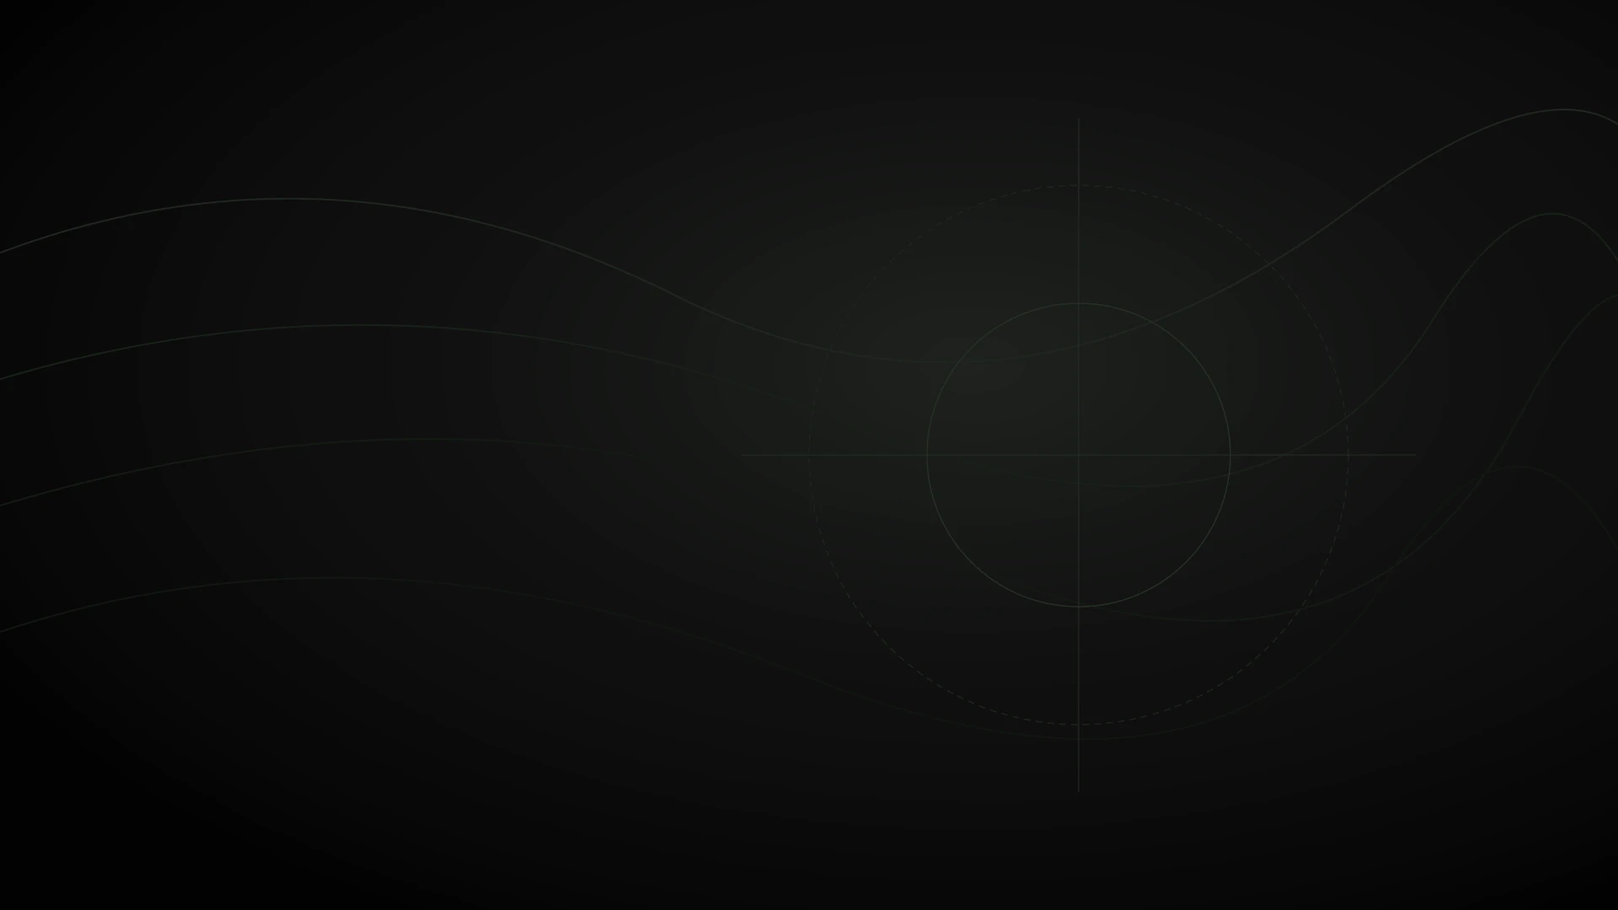
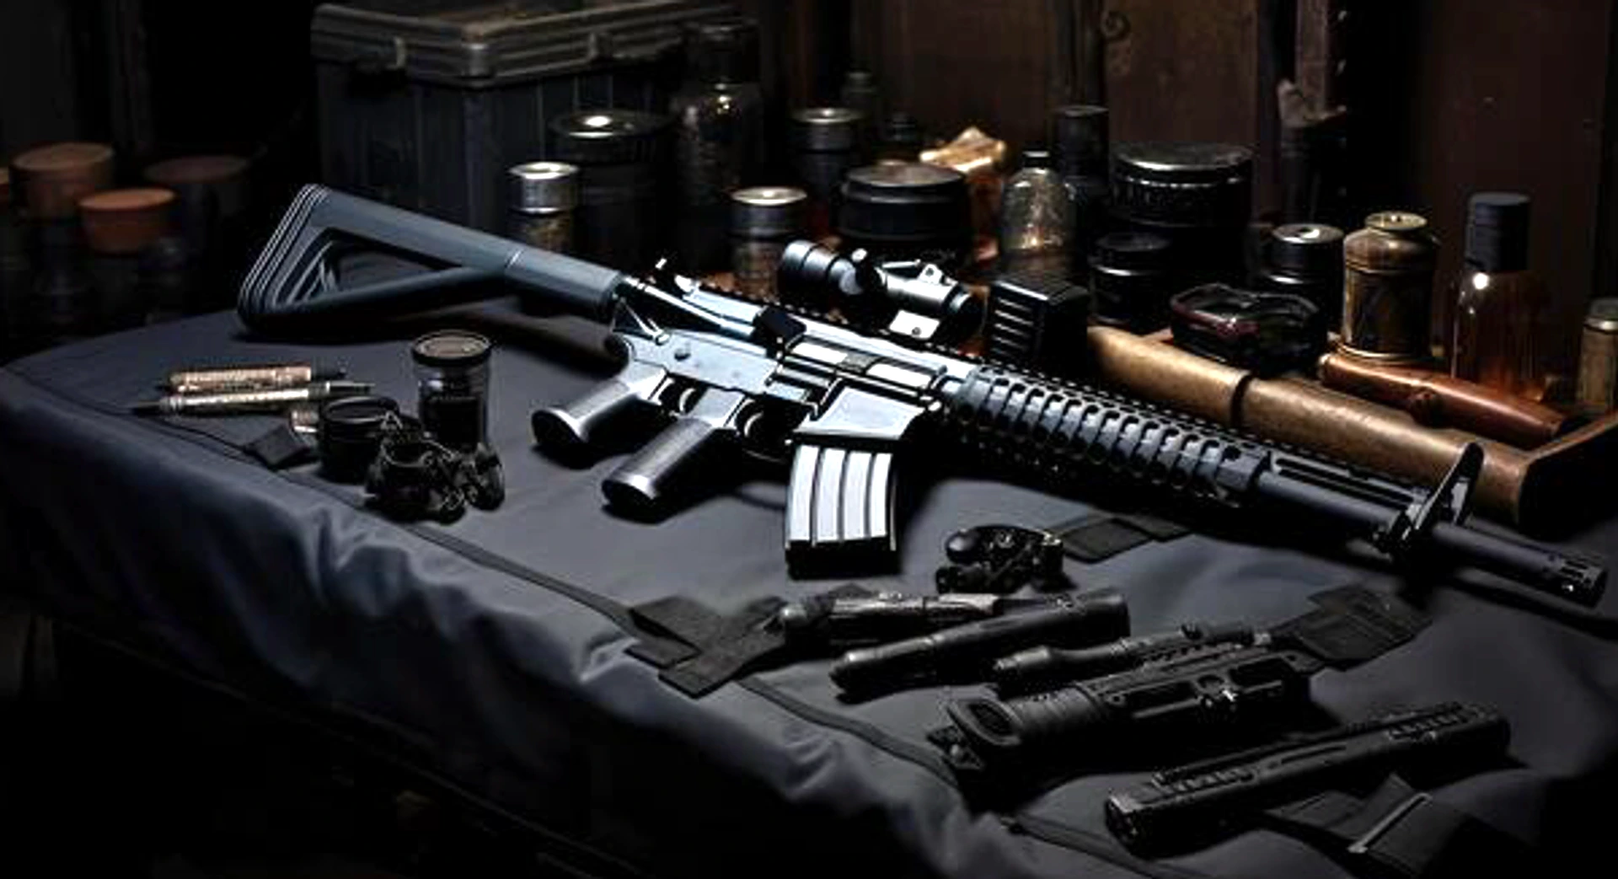
feat(ui): apply full-screen tactical background and frosted glass spotlight card

diff --git a/src/components/home/HeroSection.tsx b/src/components/home/HeroSection.tsx
@@ -11,10 +11,6 @@ import {
   MapPin,
   Compass,
   Crosshair,
-  Target,
-  Eye,
-  Layers,
-  Sparkles,
 } from "lucide-react";
 
 import { getHeroSpotlightProduct } from "@/lib/products";
@@ -40,126 +36,72 @@ export default function HeroSection({ products = [] }: { products?: Product[] })
   const spotlightTitle = (isTr ? spotlightProduct?.name_tr : spotlightProduct?.name_en) || t("spotlightTitle");
   const spotlightImage = spotlightProduct?.images?.[0] || "/images/products/optics-1.webp";
 
-  const quickCategories = [
-    {
-      id: "silah-muhimmat",
-      label: t("quickFirearms"),
-      icon: Target,
-      count: "12 Kalibre",
-    },
-    {
-      id: "optik",
-      label: t("quickOptics"),
-      icon: Eye,
-      count: "ED Cam",
-    },
-    {
-      id: "bicak",
-      label: t("quickKnives"),
-      icon: Crosshair,
-      count: "D2 Çelik",
-    },
-    {
-      id: "kamp",
-      label: t("quickCamping"),
-      icon: Layers,
-      count: "Outdoor",
-    },
-  ];
-
   return (
-    <section className="relative min-h-[92vh] flex items-center justify-center overflow-hidden border-b border-neutral-200/80 dark:border-neutral-800/80 bg-neutral-100/60 dark:bg-black pt-20 pb-16 lg:py-24 transition-colors">
-      {/* Dynamic Background Image & Atmosphere */}
-      <div className="absolute inset-0 -z-10 overflow-hidden">
+    <section className="relative min-h-[92vh] flex items-center justify-center overflow-hidden border-b border-neutral-800 bg-neutral-950 pt-20 pb-16 lg:py-24">
+      {/* Full-Screen Atmospheric Tactical Photography Background */}
+      <div className="absolute inset-0 z-0 overflow-hidden pointer-events-none select-none">
         <Image
           src="/images/hero-bg.webp"
           alt={tCommon("bgAlt")}
           fill
           priority
           sizes="100vw"
-          className="object-cover object-center opacity-30 dark:opacity-50 scale-105 transition-transform duration-1000"
+          className="object-cover object-center scale-100 transition-transform duration-1000"
         />
-        {/* Soft Vignette & Atmospheric Gradients */}
-        <div className="absolute inset-0 bg-gradient-to-t from-neutral-100 via-neutral-100/70 to-transparent dark:from-black dark:via-black/75 dark:to-black/30" />
-        <div className="absolute inset-0 bg-gradient-to-r from-neutral-100 via-neutral-100/80 to-transparent dark:from-black dark:via-black/85 dark:to-transparent" />
+        {/* Directional Overlay: Darker on the left for crisp text legibility, transparent on right so rifle shines through */}
+        <div className="absolute inset-0 bg-gradient-to-r from-black/85 via-black/45 to-transparent" />
+        <div className="absolute inset-0 bg-gradient-to-b from-black/60 via-transparent to-black/80" />
       </div>
 
-      {/* Ambient Lighting Orbs */}
-      <div className="absolute right-0 top-1/4 -z-10 h-[500px] w-[500px] rounded-full bg-[#d4af37]/15 dark:bg-[#d4af37]/20 blur-[130px] pointer-events-none" />
-      <div className="absolute left-10 top-20 -z-10 h-80 w-80 rounded-full bg-emerald-500/10 dark:bg-emerald-500/15 blur-[100px] pointer-events-none" />
+      {/* Subtle Golden Tactical Ambient Lighting on the right */}
+      <div className="absolute right-10 top-1/4 z-0 h-[450px] w-[450px] rounded-full bg-[#d4af37]/15 blur-[130px] pointer-events-none" />
 
-      {/* Tactical Grid Pattern Overlay */}
-      <div className="tactical-grid absolute inset-0 -z-10 opacity-30 pointer-events-none" />
+      {/* Fine Tactical Grid Overlay */}
+      <div className="tactical-grid absolute inset-0 z-0 opacity-10 pointer-events-none" />
 
-      <div className="mx-auto max-w-7xl px-4 sm:px-6 lg:px-8 w-full">
+      <div className="relative z-10 mx-auto max-w-7xl px-4 sm:px-6 lg:px-8 w-full">
         <div className="grid grid-cols-1 lg:grid-cols-12 gap-10 lg:gap-12 items-center">
-          {/* LEFT COLUMN: Authority, Value Proposition & CTAs */}
-          <div className="lg:col-span-7 space-y-6 sm:space-y-7">
+          {/* LEFT COLUMN: Clean, Restful, Uncluttered Authority & CTAs */}
+          <div className="lg:col-span-7 space-y-6 sm:space-y-8">
             {/* Live Status & Authority Badges */}
             <div className="flex flex-wrap items-center gap-2">
-              <div className="inline-flex items-center gap-2 rounded-full border border-neutral-300/80 dark:border-neutral-800 bg-white/95 dark:bg-neutral-900/90 px-3 py-1.5 text-xs backdrop-blur-md shadow-sm">
-                <div className="flex items-center gap-1.5 rounded-full bg-emerald-500/15 px-2 py-0.5 text-emerald-600 dark:text-emerald-400 font-bold border border-emerald-500/30">
+              <div className="inline-flex items-center gap-2 rounded-full border border-white/15 bg-black/40 px-3.5 py-1.5 text-xs text-white backdrop-blur-md shadow-lg">
+                <div className="flex items-center gap-1.5 rounded-full bg-emerald-500/20 px-2.5 py-0.5 text-emerald-400 font-bold border border-emerald-500/30">
                   <span className="relative flex h-2 w-2">
                     <span className="absolute inline-flex h-full w-full animate-ping rounded-full bg-emerald-400 opacity-75"></span>
                     <span className="relative inline-flex h-2 w-2 rounded-full bg-emerald-500"></span>
                   </span>
                   <span>{tCommon("open")}</span>
                 </div>
-                <div className="flex items-center gap-1 text-amber-500 dark:text-amber-400 font-extrabold">
+                <div className="flex items-center gap-1 text-amber-400 font-extrabold">
                   <Star className="h-3.5 w-3.5 fill-current" />
                   <span>5.0</span>
                 </div>
-                <span className="text-neutral-300 dark:text-neutral-700">|</span>
-                <span className="font-bold text-neutral-800 dark:text-neutral-300 tracking-wide uppercase text-[11px]">
+                <span className="text-white/30">|</span>
+                <span className="font-bold text-neutral-200 tracking-wide uppercase text-[11px]">
                   {t("badge")}
                 </span>
               </div>
             </div>
 
-            {/* Main Headline */}
-            <div className="space-y-3">
-              <h1 className="font-heading text-4xl font-black tracking-tight text-neutral-950 dark:text-white uppercase sm:text-5xl lg:text-6xl xl:text-7xl leading-[1.06]">
+            {/* Main Headline - High contrast, powerful */}
+            <div className="space-y-4">
+              <h1 className="font-heading text-4xl font-black tracking-tight text-white uppercase sm:text-5xl lg:text-6xl xl:text-7xl leading-[1.06] drop-shadow-md">
                 {t("titlePrefix")}{" "}
-                <span className="text-transparent bg-clip-text bg-gradient-to-r from-amber-700 via-[#d4af37] to-amber-600 dark:from-amber-200 dark:via-[#d4af37] dark:to-yellow-500">
+                <span className="text-transparent bg-clip-text bg-gradient-to-r from-amber-200 via-[#d4af37] to-amber-400">
                   {t("titleHighlight")}
                 </span>
               </h1>
-              <p className="max-w-2xl text-base text-neutral-700 dark:text-neutral-300 sm:text-lg leading-relaxed font-normal">
+              <p className="max-w-xl text-base text-neutral-200 sm:text-lg leading-relaxed font-normal drop-shadow-sm">
                 {t("description")}
               </p>
             </div>
 
-            {/* Quick Category Jump Chips */}
-            <div className="space-y-2 pt-1">
-              <div className="flex items-center gap-2 text-xs font-bold uppercase tracking-wider text-neutral-500 dark:text-neutral-400">
-                <Sparkles className="h-3.5 w-3.5 text-[#d4af37]" />
-                <span>{t("quickCategories")}</span>
-              </div>
-              <div className="flex flex-wrap gap-2">
-                {quickCategories.map((cat) => {
-                  const Icon = cat.icon;
-                  return (
-                    <Link
-                      key={cat.id}
-                      href={`/products?category=${cat.id}`}
-                      className="group inline-flex items-center gap-2 rounded-xl border border-neutral-300/80 dark:border-neutral-800 bg-white/80 dark:bg-neutral-900/60 px-3.5 py-2 text-xs font-bold text-neutral-800 dark:text-neutral-200 backdrop-blur-md transition-all hover:border-[#d4af37] hover:bg-neutral-50 dark:hover:bg-neutral-850 hover:text-black dark:hover:text-white hover:scale-[1.02] shadow-sm"
-                    >
-                      <Icon className="h-3.5 w-3.5 text-[#d4af37] transition-transform group-hover:scale-110" />
-                      <span>{cat.label}</span>
-                      <span className="rounded bg-neutral-200/70 dark:bg-neutral-800 px-1.5 py-0.5 text-[10px] font-semibold text-neutral-600 dark:text-neutral-400">
-                        {cat.count}
-                      </span>
-                    </Link>
-                  );
-                })}
-              </div>
-            </div>
-
-            {/* Action CTA Buttons */}
-            <div className="flex flex-wrap items-center gap-3 pt-2">
+            {/* Streamlined Action CTAs: High-impact buttons without eye-straining clutter */}
+            <div className="flex flex-wrap items-center gap-3.5 pt-1">
               <Link
                 href="/products"
-                className="inline-flex items-center justify-center gap-2 rounded-xl bg-neutral-950 dark:bg-white px-6 py-3.5 text-sm font-extrabold uppercase tracking-wider text-white dark:text-black shadow-xl transition-all hover:bg-neutral-800 dark:hover:bg-neutral-200 hover:shadow-2xl active:scale-95"
+                className="inline-flex items-center justify-center gap-2.5 rounded-xl bg-white hover:bg-neutral-200 text-black px-7 py-4 text-sm font-extrabold uppercase tracking-wider shadow-2xl transition-all hover:scale-[1.02] active:scale-95"
               >
                 <span>{t("catalogCta")}</span>
                 <ArrowRight className="h-4 w-4 transition-transform group-hover:translate-x-1" />
@@ -169,7 +111,7 @@ export default function HeroSection({ products = [] }: { products?: Product[] })
                 href={waUrl}
                 target="_blank"
                 rel="noopener noreferrer"
-                className="inline-flex items-center justify-center gap-2 rounded-xl border border-neutral-300 dark:border-neutral-700 bg-white/95 dark:bg-neutral-900/90 px-5 py-3.5 text-sm font-bold uppercase tracking-wider text-neutral-950 dark:text-white backdrop-blur-md transition-all hover:border-[#25D366] hover:bg-white dark:hover:bg-neutral-850 active:scale-95 shadow-sm"
+                className="inline-flex items-center justify-center gap-2 rounded-xl border border-white/20 bg-black/40 hover:bg-black/60 px-6 py-4 text-sm font-bold uppercase tracking-wider text-white backdrop-blur-md transition-all hover:border-[#25D366] hover:scale-[1.02] active:scale-95 shadow-lg"
               >
                 <MessageCircle className="h-4 w-4 text-[#25D366]" />
                 <span>{tCommon("whatsappInfoLine")}</span>
@@ -177,46 +119,48 @@ export default function HeroSection({ products = [] }: { products?: Product[] })
 
               <Link
                 href="/contact"
-                className="inline-flex items-center justify-center gap-2 rounded-xl border border-neutral-300 dark:border-neutral-800 bg-white/80 dark:bg-black/60 px-4 py-3.5 text-sm font-semibold text-neutral-800 dark:text-neutral-300 transition-all hover:bg-neutral-100 dark:hover:bg-neutral-900 shadow-sm"
+                className="inline-flex items-center justify-center gap-2 rounded-xl border border-white/15 bg-black/30 hover:bg-black/50 px-5 py-4 text-sm font-semibold text-neutral-200 hover:text-white backdrop-blur-md transition-all shadow-sm"
               >
                 <MapPin className="h-4 w-4 text-[#d4af37]" />
                 <span>{t("storeCta")}</span>
               </Link>
             </div>
 
-            {/* Trust Highlights Strip */}
-            <div className="grid grid-cols-2 sm:grid-cols-3 gap-4 pt-4 border-t border-neutral-300/60 dark:border-neutral-800/80 text-xs text-neutral-800 dark:text-neutral-300 font-medium">
-              <div className="flex items-center gap-2.5">
-                <ShieldCheck className="h-5 w-5 shrink-0 text-[#d4af37]" />
-                <div className="font-semibold">{t("licensedDealer")}</div>
+            {/* Clean Trust Strip */}
+            <div className="flex flex-wrap items-center gap-6 pt-2 text-xs text-neutral-300 font-medium">
+              <div className="flex items-center gap-2">
+                <ShieldCheck className="h-4 w-4 text-[#d4af37]" />
+                <span>{t("licensedDealer")}</span>
               </div>
-              <div className="flex items-center gap-2.5">
-                <Compass className="h-5 w-5 shrink-0 text-[#d4af37]" />
-                <div className="font-semibold">{t("yearsExp")}</div>
+              <span className="text-white/20">&bull;</span>
+              <div className="flex items-center gap-2">
+                <Compass className="h-4 w-4 text-[#d4af37]" />
+                <span>{t("yearsExp")}</span>
               </div>
-              <div className="flex items-center gap-2.5 col-span-2 sm:col-span-1">
-                <Star className="h-5 w-5 shrink-0 text-amber-500 fill-amber-500 dark:text-amber-400 dark:fill-amber-400" />
-                <div className="font-semibold">{t("originalProducts")}</div>
+              <span className="text-white/20">&bull;</span>
+              <div className="flex items-center gap-2">
+                <Star className="h-4 w-4 text-amber-400 fill-amber-400" />
+                <span>{t("originalProducts")}</span>
               </div>
             </div>
           </div>
 
-          {/* RIGHT COLUMN: Flagship Tactical Spotlight Card */}
-          <div className="lg:col-span-5 relative">
-            {/* Outer Glow Wrapper */}
-            <div className="relative rounded-3xl p-1 bg-gradient-to-b from-[#d4af37]/40 via-neutral-300 dark:via-neutral-800/60 to-neutral-200 dark:to-neutral-900 shadow-2xl">
-              {/* Inner Card Container */}
-              <div className="relative rounded-[22px] bg-white/95 dark:bg-neutral-950/95 border border-neutral-200/80 dark:border-neutral-800/80 backdrop-blur-2xl p-5 sm:p-6 overflow-hidden">
+          {/* RIGHT COLUMN: Fully Transparent Frosted Glass Spotlight Card */}
+          <div className="lg:col-span-5 relative mt-4 lg:mt-0">
+            {/* Luminous Glass Outer Border */}
+            <div className="relative rounded-3xl p-[1px] bg-gradient-to-b from-[#d4af37]/60 via-white/20 to-[#d4af37]/30 shadow-[0_20px_50px_rgba(0,0,0,0.6)] backdrop-blur-xl">
+              {/* Semi-Transparent Frosted Glass Container (Background Visible Through It) */}
+              <div className="relative rounded-[23px] bg-neutral-950/40 backdrop-blur-xl border border-white/15 p-5 sm:p-6 pb-12 sm:pb-14 overflow-hidden text-white shadow-2xl">
                 {/* Spotlight Header Bar */}
-                <div className="flex items-center justify-between gap-2 pb-4 border-b border-neutral-200 dark:border-neutral-800">
+                <div className="flex items-center justify-between gap-2 pb-4 border-b border-white/10">
                   <div className="flex items-center gap-2">
                     <Crosshair className="h-4 w-4 text-[#d4af37]" />
                     <span className="text-[11px] font-black uppercase tracking-widest text-[#d4af37]">
                       {t("spotlightBadge")}
                     </span>
                   </div>
-                  <div className="flex items-center gap-1.5 rounded-full bg-emerald-500/10 px-2.5 py-0.5 text-[10px] font-bold text-emerald-600 dark:text-emerald-400 border border-emerald-500/20">
-                    <span className="h-1.5 w-1.5 rounded-full bg-emerald-500 animate-pulse" />
+                  <div className="flex items-center gap-1.5 rounded-full bg-emerald-500/20 px-2.5 py-0.5 text-[10px] font-bold text-emerald-400 border border-emerald-500/30">
+                    <span className="h-1.5 w-1.5 rounded-full bg-emerald-400 animate-pulse" />
                     <span>{t("spotlightInStock")}</span>
                   </div>
                 </div>
@@ -224,7 +168,7 @@ export default function HeroSection({ products = [] }: { products?: Product[] })
                 {/* Hero Product Visual Display */}
                 <Link
                   href={featuredProductSlug}
-                  className="group block relative my-4 rounded-2xl bg-neutral-100 dark:bg-neutral-900 border border-neutral-200 dark:border-neutral-800/80 overflow-hidden aspect-[4/3]"
+                  className="group block relative my-4 rounded-2xl bg-black/40 border border-white/15 overflow-hidden aspect-[4/3] backdrop-blur-md shadow-inner"
                 >
                   <Image
                     src={spotlightImage}
@@ -233,50 +177,45 @@ export default function HeroSection({ products = [] }: { products?: Product[] })
                     sizes="(max-width: 768px) 100vw, 500px"
                     className="object-cover object-center transition-transform duration-500 group-hover:scale-105"
                   />
-                  {/* Tactical Reticle Graphic Overlay */}
-                  <div className="absolute inset-0 bg-gradient-to-t from-black/80 via-transparent to-transparent flex items-end p-4">
-                    <div className="text-white">
-                      <div className="text-xs font-mono font-bold tracking-widest text-[#d4af37] uppercase">
-                        [ + ] ÖNE ÇIKAN MODEL
-                      </div>
-                      <div className="text-base font-heading font-black">
-                        {spotlightTitle}
+                  {spotlightProduct ? (
+                    <div className="absolute inset-0 bg-gradient-to-t from-black/85 via-black/20 to-transparent flex items-end p-4">
+                      <div className="text-white">
+                        <div className="text-xs font-mono font-bold tracking-widest text-[#d4af37] uppercase">
+                          [ + ] ÖNE ÇIKAN MODEL
+                        </div>
+                        <div className="text-base font-heading font-black">
+                          {spotlightTitle}
+                        </div>
                       </div>
                     </div>
-                  </div>
-
-                  {/* Corner Crosshair HUD Markers */}
-                  <div className="absolute top-2 left-2 text-neutral-400/60 font-mono text-[10px] select-none">
-                    + 3-24x56
-                  </div>
-                  <div className="absolute top-2 right-2 text-neutral-400/60 font-mono text-[10px] select-none">
-                    ED GLASS
-                  </div>
+                  ) : (
+                    <div className="absolute inset-0 bg-black/10 group-hover:bg-transparent transition-colors" />
+                  )}
                 </Link>
 
-                {/* Tactical Specs Bar */}
-                <div className="grid grid-cols-3 gap-2 py-3 border-y border-neutral-200 dark:border-neutral-800/80 text-center">
-                  <div className="rounded-lg bg-neutral-50 dark:bg-neutral-900/60 p-2">
-                    <div className="text-[10px] uppercase font-bold text-neutral-500 dark:text-neutral-400">
+                {/* Tactical Specs Bar (Translucent Glass Pills) */}
+                <div className="grid grid-cols-3 gap-2.5 py-3 border-y border-white/10 text-center">
+                  <div className="rounded-xl bg-white/[0.08] backdrop-blur-md border border-white/10 p-2.5">
+                    <div className="text-[10px] uppercase font-bold text-neutral-300">
                       {t("spotlightMagnification")}
                     </div>
-                    <div className="font-heading font-black text-sm text-neutral-900 dark:text-white">
+                    <div className="font-heading font-black text-sm text-white mt-0.5">
                       3x - 24x
                     </div>
                   </div>
-                  <div className="rounded-lg bg-neutral-50 dark:bg-neutral-900/60 p-2">
-                    <div className="text-[10px] uppercase font-bold text-neutral-500 dark:text-neutral-400">
+                  <div className="rounded-xl bg-white/[0.08] backdrop-blur-md border border-white/10 p-2.5">
+                    <div className="text-[10px] uppercase font-bold text-neutral-300">
                       {t("spotlightLight")}
                     </div>
-                    <div className="font-heading font-black text-sm text-emerald-600 dark:text-emerald-400">
+                    <div className="font-heading font-black text-sm text-emerald-400 mt-0.5">
                       %92+
                     </div>
                   </div>
-                  <div className="rounded-lg bg-neutral-50 dark:bg-neutral-900/60 p-2">
-                    <div className="text-[10px] uppercase font-bold text-neutral-500 dark:text-neutral-400">
+                  <div className="rounded-xl bg-white/[0.08] backdrop-blur-md border border-white/10 p-2.5">
+                    <div className="text-[10px] uppercase font-bold text-neutral-300">
                       {t("spotlightDurability")}
                     </div>
-                    <div className="font-heading font-black text-sm text-neutral-900 dark:text-white">
+                    <div className="font-heading font-black text-sm text-white mt-0.5">
                       Magnum
                     </div>
                   </div>
@@ -284,18 +223,19 @@ export default function HeroSection({ products = [] }: { products?: Product[] })
 
                 {/* Spotlight Footer & Action */}
                 <div className="flex items-center justify-between pt-4 gap-3">
-                  <div className="flex flex-col">
-                    <span className="text-[10px] uppercase tracking-wider font-bold text-neutral-500 dark:text-neutral-400">
-                      📍 {t("spotlightStorePickup")}
+                  <div className="flex flex-col space-y-0.5">
+                    <span className="text-[11px] uppercase tracking-wider font-bold text-amber-300/90 flex items-center gap-1">
+                      <MapPin className="h-3 w-3 text-[#d4af37]" />
+                      <span>{t("spotlightStorePickup")}</span>
                     </span>
-                    <span className="text-xs font-semibold text-neutral-700 dark:text-neutral-300">
+                    <span className="text-xs font-medium text-neutral-300">
                       {t("spotlightReviews")}
                     </span>
                   </div>
 
                   <Link
                     href={featuredProductSlug}
-                    className="inline-flex items-center gap-1.5 rounded-xl bg-[#d4af37] px-4 py-2.5 text-xs font-extrabold uppercase tracking-wider text-black shadow-md transition-all hover:bg-amber-400 hover:shadow-lg active:scale-95 shrink-0"
+                    className="inline-flex items-center gap-2 rounded-xl bg-gradient-to-r from-amber-400 via-[#d4af37] to-amber-500 hover:brightness-110 px-5 py-3 text-xs font-black uppercase tracking-wider text-black shadow-lg transition-all hover:scale-[1.03] active:scale-95 shrink-0"
                   >
                     <span>{t("spotlightInspect")}</span>
                     <ArrowRight className="h-3.5 w-3.5" />
@@ -304,16 +244,16 @@ export default function HeroSection({ products = [] }: { products?: Product[] })
               </div>
             </div>
 
-            {/* Floating Trust Indicator Pill on Desktop */}
-            <div className="hidden sm:flex items-center gap-2.5 absolute -bottom-5 -left-5 rounded-2xl border border-neutral-300/90 dark:border-neutral-700 bg-white/95 dark:bg-neutral-900/95 p-3 px-4 shadow-xl backdrop-blur-xl">
-              <div className="flex h-9 w-9 items-center justify-center rounded-xl bg-amber-500/15 text-[#d4af37] font-bold">
-                <Star className="h-5 w-5 fill-[#d4af37]" />
+            {/* Floating Trust Indicator Pill on Desktop (Frosted Glass) */}
+            <div className="hidden sm:flex items-center gap-3 absolute -bottom-5 -left-6 rounded-2xl border border-white/20 bg-neutral-950/85 px-4 py-2.5 shadow-2xl backdrop-blur-xl text-white">
+              <div className="flex h-9 w-9 items-center justify-center rounded-xl bg-[#d4af37]/20 border border-[#d4af37]/30 text-[#d4af37] font-bold shrink-0">
+                <Star className="h-4 w-4 fill-[#d4af37]" />
               </div>
               <div className="flex flex-col">
-                <span className="text-xs font-extrabold text-neutral-950 dark:text-white">
+                <span className="text-xs font-black text-white tracking-wide">
                   5.0 ★ Google Haritalar
                 </span>
-                <span className="text-[10px] font-medium text-neutral-500 dark:text-neutral-400">
+                <span className="text-[11px] font-medium text-neutral-300">
                   Malatya'nın En Yüksek Puanlı Bayii
                 </span>
               </div>
